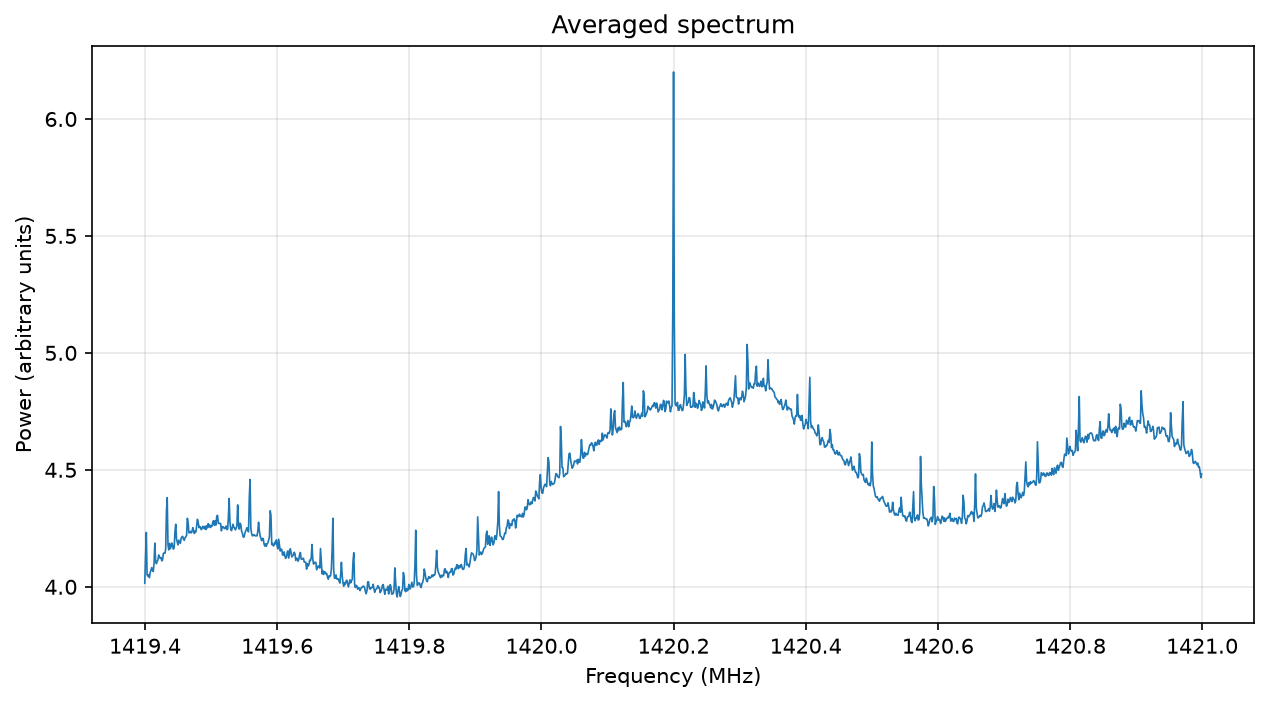
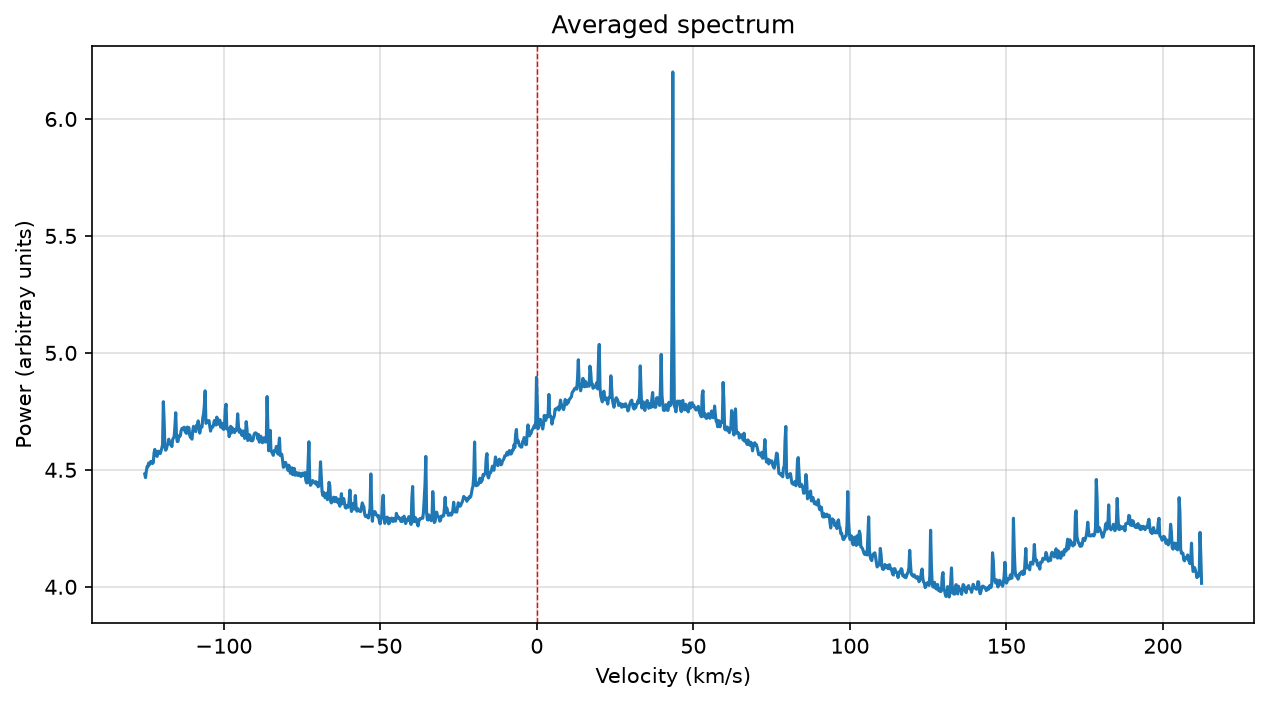
reworking plotting functions

diff --git a/analysis/plot.py b/analysis/plot.py
@@ -1,69 +1,52 @@
 import argparse
-from pathlib import Path
 import pandas as pd 
 import matplotlib.pyplot as plt
+from pathlib import Path
+from spectra import LIGHT_SPEED, F_ZERO, DATA_DIR, latest_csv, trim_edges, on_off_ratio, freq_to_velocity
 
-DATA_DIR = Path("data")
-
-def latest_csv(folder: Path) -> Path | None:
-    return max(folder.glob("*.csv"), key=lambda p: p.stat().st_mtime, default=None)
-
-def trim_edges(freq, power, half_width=0.8):
-    center = freq.median()
-    keep = (freq - center).abs() < half_width
-    return freq[keep], power[keep]
-
-def on_off_ratio(on_path, off_path):
-    on = pd.read_csv(on_path, comment="#")
-    off = pd.read_csv(off_path, comment="#")
-    freq = on["frequency(Hz)"] / 1e6
-    ratio = on["power"] / off["power"]
-    freq, ratio = trim_edges(freq, ratio)
-    ratio = ratio / ratio.median()
-    ratio = ratio.rolling(7, center=True).median()
-    return freq, ratio
-
-def main():
-    parser = argparse.ArgumentParser()
-    parser.add_argument("csv_path", nargs="?", type=Path)
-    parser.add_argument("off_path", nargs="?", type=Path)
-    parser.add_argument("--full", action="store_true")
-    args = parser.parse_args()
-
+def get_csv_path(args) -> Path:
     csv_path = args.csv_path
     if csv_path is None:
         csv_path = latest_csv(DATA_DIR)
         if csv_path is None:
-            parser.error(f"No CSVs found in {DATA_DIR}")
+            raise RuntimeError(f"No CSVs found in {DATA_DIR}")
         print(f"Using newest data: {csv_path.name}")
     elif not csv_path.exists():
-        parser.error(f"File not found: {csv_path}")
+        raise RuntimeError(f"File not found: {csv_path}")
+    return csv_path
 
+def main():
+    parser = argparse.ArgumentParser()
+    parser.add_argument("--csv_path", nargs="?", type=Path)
+    parser.add_argument("--off_path", nargs="?", type=Path)
+    parser.add_argument("--trim", action="store_true")
+    parser.add_argument("--velocity", action="store_true")
+
+    args = parser.parse_args()
     fig, ax = plt.subplots(figsize=(10, 5))
+    csv_path = get_csv_path(args)
 
-    if args.off_path is not None:
-        freq, ratio = on_off_ratio(csv_path, args.off_path)
-        ax.plot(freq, ratio, linewidth=0.8)
-        ax.axhline(1.0, color="gray", linewidth=0.5)
-        ax.axvline(1420.405751, color="red", linestyle="--", linewidth=0.7)
-        ax.set_ylabel("On / off")
-        ax.set_title(f"{csv_path.stem} / {args.off_path.stem}")
-        out_path = csv_path.with_name(csv_path.stem + "_ratio.png")
-    else:
-        df = pd.read_csv(csv_path, comment="#")
-        freq = df["frequency(Hz)"] / 1e6
-        power = df["power"]
-        if not args.full:
-            freq, power = trim_edges(freq, power, half_width=0.8)
-        ax.plot(freq, power, linewidth=0.8)
-        ax.set_ylabel("Power (arbitrary units)")
+    df = pd.read_csv(csv_path, comment="#")
+    freq = df["frequency(Hz)"]
+    power = df["power"] 
+    if args.trim:
+        freq, power = trim_edges(freq, power, half_width=0.8e6)
+
+    x_value, x_label = (freq / 1e6, "Frequency (MHz)") if not args.velocity else (freq_to_velocity(freq), "Velocity (km/s)")
+    y_value, y_label = (power, "Power (arbitray units)") if args.off_path is None else (on_off_ratio(csv_path, args.off_path, args.trim), "On / off")
+    ax.axvline(0 if args.velocity else F_ZERO / 1e6, color="red", linestyle="--", linewidth=0.7)
+    ax.plot(x_value, y_value)
+    ax.set_xlabel(x_label)
+    ax.set_ylabel(y_label)
+
+    suffix = ("_velocity" if args.velocity else "") + ("_trim" if args.trim else "") + ("_ratio" if args.off_path else "")
+    if args.off_path is None:
         ax.set_title("Averaged spectrum")
-        suffix = "" if args.full else "_trim"
-        out_path = csv_path.with_name(csv_path.stem + suffix + ".png")
+    else:
+        ax.set_title(f"{csv_path.stem} / {args.off_path.stem}")
 
-    ax.set_xlabel("Frequency (MHz)")
-    ax.grid(True, alpha=0.3)
-
+    out_path = csv_path.with_name(csv_path.stem + suffix + ".png")
+    ax.grid(True, alpha=0.4)
     fig.savefig(out_path, dpi=150, bbox_inches="tight")
     print(f"Saved {out_path}")
     plt.show()

diff --git a/analysis/spectra.py b/analysis/spectra.py
@@ -1,0 +1,30 @@
+from pathlib import Path
+import pandas as pd
+
+LIGHT_SPEED = 299792.458 # in km/s
+F_ZERO = 1420405751.768 # in Hz
+DATA_DIR = Path("data")
+
+
+def latest_csv(folder: Path) -> Path | None:
+    return max(folder.glob("*.csv"), key=lambda p: p.stat().st_mtime, default=None)
+
+def trim_edges(freq, power, half_width=0.8e6):
+    center = freq.median()
+    keep = (freq - center).abs() < half_width
+    return freq[keep], power[keep]
+
+def on_off_ratio(on_path, off_path, trim: bool):
+    on = pd.read_csv(on_path, comment="#")
+    off = pd.read_csv(off_path, comment="#")
+    freq = on["frequency(Hz)"]
+    ratio = on["power"] / off["power"]
+    if trim:
+        freq, ratio = trim_edges(freq, ratio)
+    ratio = ratio / ratio.median()
+    ratio = ratio.rolling(7, center=True).median()
+    return ratio
+
+def freq_to_velocity(freq_series: pd.Series):
+    velocity = LIGHT_SPEED * (F_ZERO - freq_series) / F_ZERO
+    return velocity
